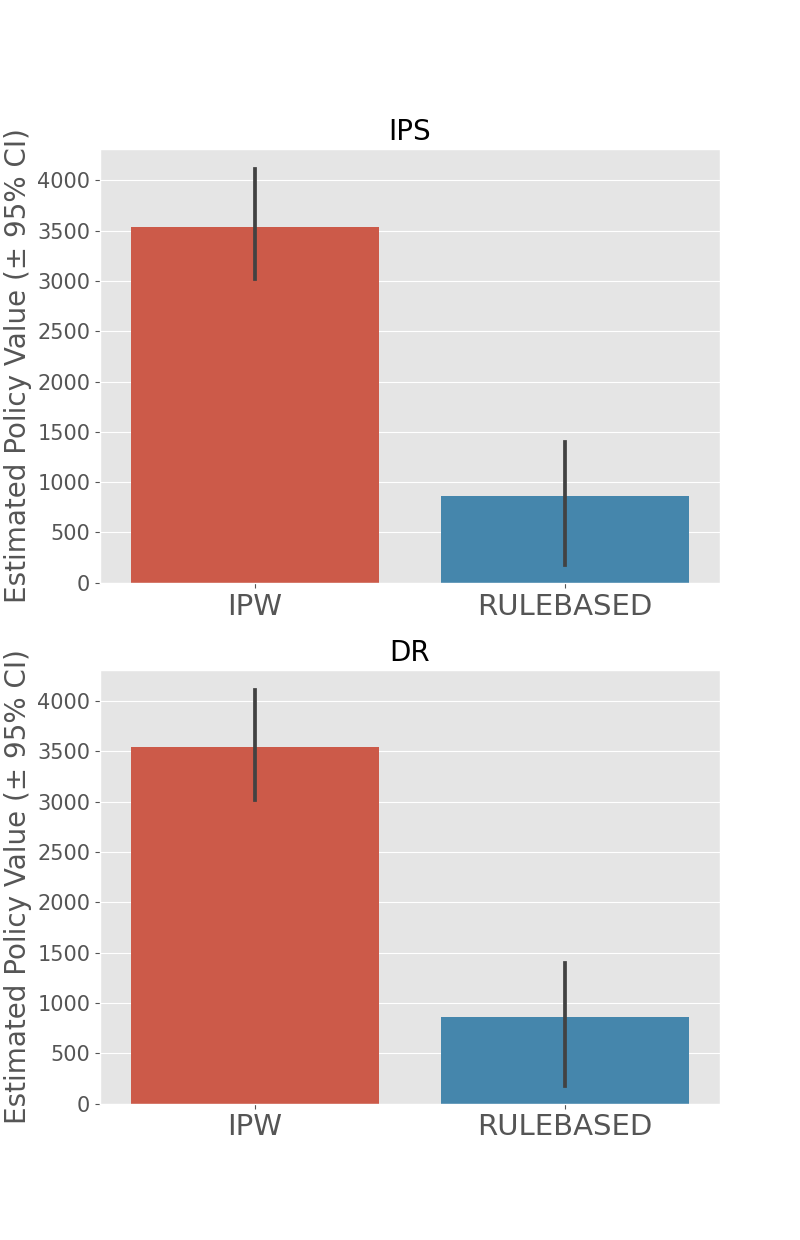
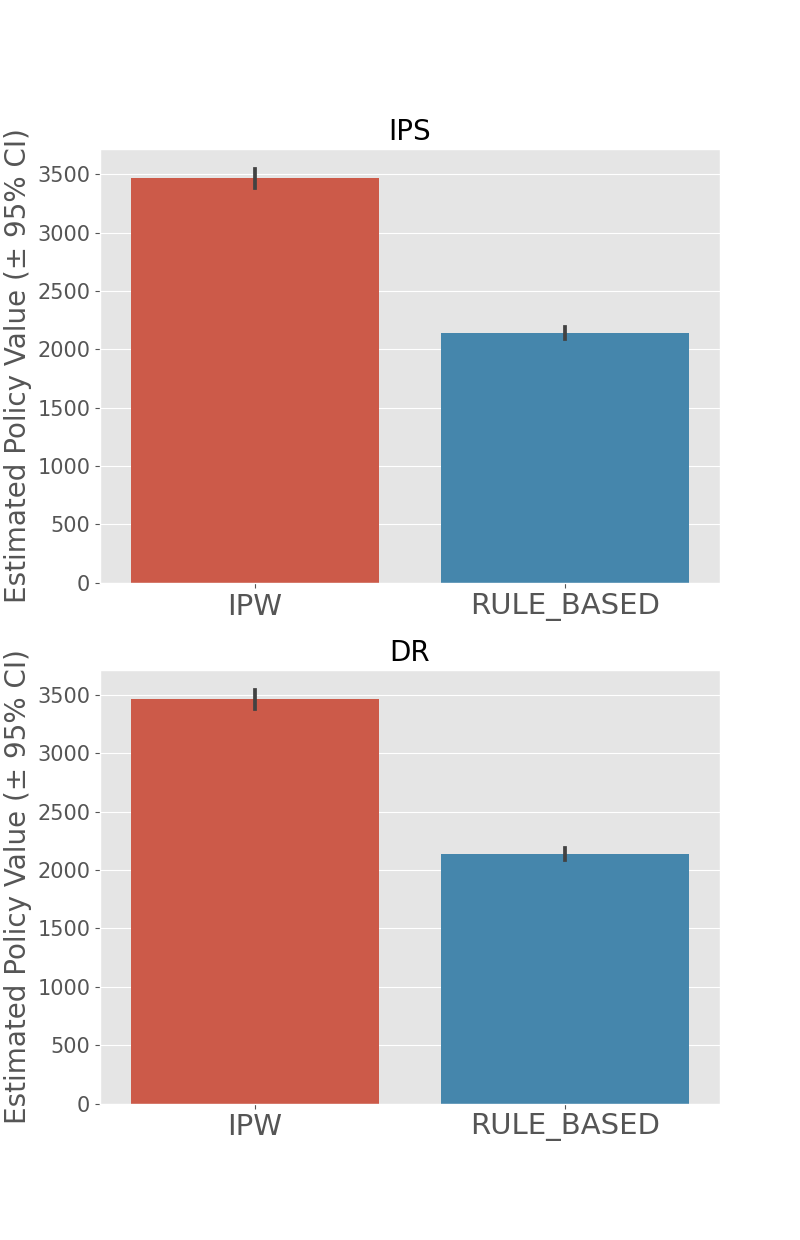
deterministic rule based model

diff --git a/main.py b/main.py
@@ -1,24 +1,38 @@
 from pokemon_ml_design.synthesize_data import synthesize_data
-from pokemon_ml_design.model import IPWModel, RuleBasedModel
+from pokemon_ml_design.model import IPWModel, RuleBasedModel, DeterministicRuleBasedModel
 from pokemon_ml_design.evaluate import evaluate
 
 def main():
-    print('load')
+    print('synthesize data')
     training_data, validation_data = synthesize_data()
 
-    # TODO: モデルを追加しやすくする
-    print('train')
-    ipw_model = IPWModel()
-    rule_based_model = RuleBasedModel()
+    models = dict(IPW=IPWModel(), RULE_BASED=DeterministicRuleBasedModel())
+    action_choices = dict()
+    for model_name, model in models.items():
+        print(f'train {model_name}')
+        model.fit(data=training_data)
 
-    ipw_model.fit(data=training_data)
-    rule_based_model.fit(data=training_data)
+        print(f'predict {model_name}')
+        action_choice = model.predict(validation_data['context'])
+
+        action_choices[model_name] = action_choice
 
     print('evaluate')
-    action_choice_by_ipw_model = ipw_model.predict(validation_data['context'])
-    action_choice_by_rule_based_model = rule_based_model.predict(validation_data['context'])
+    evaluate(validation_data, action_choices=action_choices)
 
-    evaluate(validation_data, action_choices=dict(IPW=action_choice_by_ipw_model, RULEBASED=action_choice_by_rule_based_model))
+
+    # print('train')
+    # ipw_model = IPWModel()
+    # rule_based_model = RuleBasedModel()
+    #
+    # ipw_model.fit(data=training_data)
+    # rule_based_model.fit(data=training_data)
+    #
+    # print('evaluate')
+    # action_choice_by_ipw_model = ipw_model.predict(validation_data['context'])
+    # action_choice_by_rule_based_model = rule_based_model.predict(validation_data['context'])
+    #
+    # evaluate(validation_data, action_choices=dict(IPW=action_choice_by_ipw_model, RULE_BASED=action_choice_by_rule_based_model))
 
 if __name__ == '__main__':
     main()

diff --git a/pokemon_ml_design/model.py b/pokemon_ml_design/model.py
@@ -11,7 +11,7 @@ from sklearn.ensemble import RandomForestClassifier
 from sklearn.svm import SVC
 
 from pokemon_ml_design.actions import ACTIONS
-from pokemon_ml_design.policy import rule_based_policy
+from pokemon_ml_design.policy import rule_based_policy, deterministic_rule_based_policy
 
 
 class BaseModel(metaclass=ABCMeta):
@@ -66,4 +66,21 @@ class RuleBasedModel(BaseModel):
             probabilities = rule_based_policy(pokemon_id)
             prediction = np.random.multinomial(n=1, pvals=probabilities, size=1)[0]
             predictions.append(prediction)
+        return  np.array(predictions)[:, :, np.newaxis]
+
+
+class DeterministicRuleBasedModel(BaseModel):
+    def __init__(self) -> None:
+        pass
+
+    def fit(self, data: BanditFeedback) -> None:
+        # 学習フェーズはない
+        pass
+
+    def predict(self, context: np.ndarray) -> np.ndarray:
+        pokemon_ids = context[:, 0]
+        predictions = []
+        for pokemon_id in pokemon_ids:
+            prediction = deterministic_rule_based_policy(pokemon_id)
+            predictions.append(np.array(prediction))
         return  np.array(predictions)[:, :, np.newaxis]

diff --git a/pokemon_ml_design/policy.py b/pokemon_ml_design/policy.py
@@ -13,13 +13,35 @@ def rule_based_policy(pokemon_id: int) -> Tuple:
     if reward >= 10000:
         return 0.1, 0.1, 0.1, 0.2, 0.5
 
-    if 2000 <= reward and reward < 10000:
+    if reward >= 2000:
         return 0.05, 0.2, 0.3, 0.4, 0.05
 
-    if 500 <= reward and reward < 2000:
+    if reward >= 500:
         return 0.1, 0.3, 0.5, 0.05, 0.05
 
-    if 100 <= reward and reward < 500:
+    if reward >= 100:
         return 0.4, 0.4, 0.1, 0.05, 0.05
 
     return 0.8, 0.05, 0.05, 0.05, 0.05
+
+
+def deterministic_rule_based_policy(pokemon_id: int) -> Tuple:
+    pokemon_zukan = PokemonZukan()
+
+    capture_dificulty = pokemon_zukan.get_capture_dificulty(pokemon_id)
+    reward = pokemon_zukan.get_reward(pokemon_id)
+    name = pokemon_zukan.get_name(pokemon_id)
+
+    if reward >= 10000:
+        return 0, 0, 0, 0, 1
+
+    if reward >= 2000:
+        return 0, 0, 0, 1, 0
+
+    if reward >= 500:
+        return 0, 0, 1, 0, 0
+
+    if reward >= 100:
+        return 0, 1, 0, 0, 0
+
+    return 1, 0, 0, 0, 0

diff --git a/pokemon_ml_design/synthesize_data.py b/pokemon_ml_design/synthesize_data.py
@@ -89,6 +89,6 @@ def synthesize_data() -> Tuple[BanditFeedback, BanditFeedback]:
         random_state=615,
     )
     training_data = _post_process(dataset.obtain_batch_bandit_feedback(n_rounds=50000))
-    validation_data = _post_process(dataset.obtain_batch_bandit_feedback(n_rounds=1000))
+    validation_data = _post_process(dataset.obtain_batch_bandit_feedback(n_rounds=50000))
 
     return training_data, validation_data
